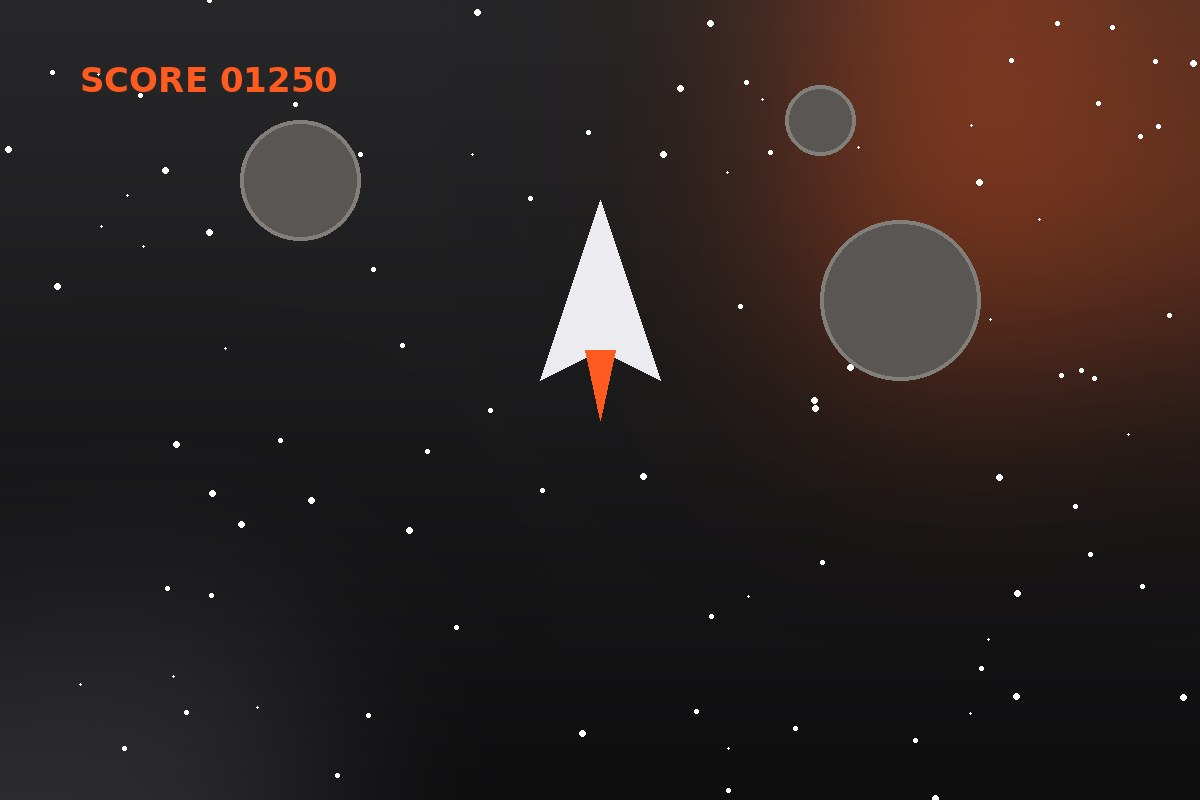
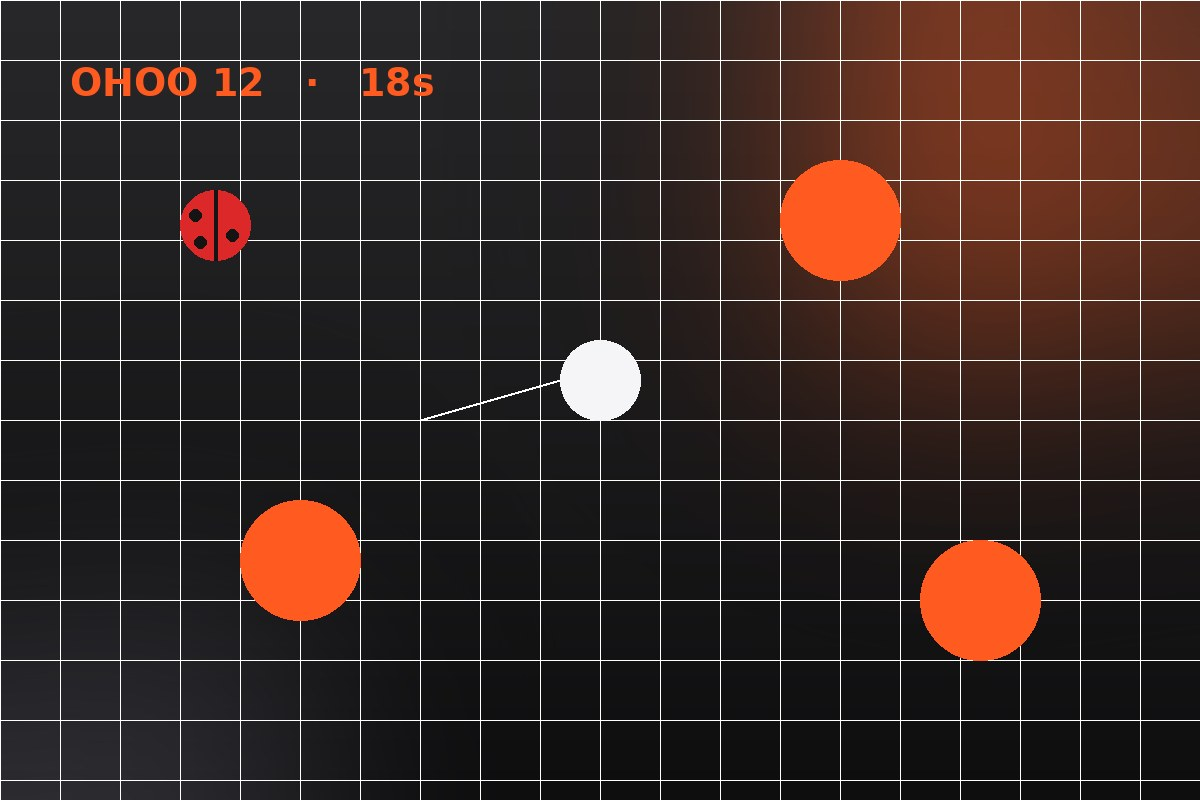
Профайлыг шинэчлэв: СЭЗИС 4-р курс, Orb Rush анхны тоглоом, мөрөөдлийн тоглоом (locked)
Claude-Session: https://claude.ai/code/session_01C69R1T5HpNUTMJKqzjogiB

diff --git a/src/data/profile.ts b/src/data/profile.ts
@@ -10,15 +10,17 @@ export const profile = {
   name: 'Д.Очиржанцан',
   nickname: 'Ochiko',
   studentId: 'B23FA1235',
-  role: 'Game Developer · Student',
+  role: 'Aspiring Game Developer',
   // Нүүр дэлгэцийн нэг өгүүлбэр
-  tagline: 'Код бичих бүрдээ шинэ ертөнц бүтээж, тоглогчдод мартагдашгүй мөч бэлэглэхийг зорьдог.',
-  school: 'СЭЗИС · Мэдээллийн системийн менежмент',
+  tagline: 'Өөрийн тоглоомоо бүтээхийг мөрөөддөг — анхны алхмаа яг энэ апп дотор хийлээ.',
+  school: 'Санхүү Эдийн Засгийн Их Сургууль · 4-р курс',
+  major: 'Мэдээллийн систем',
   bio:
-    'Сайн байна уу! Би Очиржанцан. Хүүхэд байхаасаа тоглоом тоглохдоо "энэ яаж хийгддэг юм бол?" ' +
-    'гэж боддог байсан нь намайг программчлал руу хөтөлсөн. Одоо вэб, мобайл, C# дээр суралцаж, ' +
-    'ирээдүйд өөрийн гэсэн тоглоомоо гаргахыг зорьж байна.',
-  interests: ['Тоглоом хөгжүүлэлт', 'Game design', 'Unity', 'UI/UX'],
+    'Сайн байна уу! Би Очиржанцан, СЭЗИС-ийн Мэдээллийн систем мэргэжлийн 4-р курсийн оюутан. ' +
+    'Тоглоом тоглохдоо "энэ яаж хийгддэг юм бол?" гэж үргэлж боддог байсан. Тэгээд нэг өдөр ' +
+    'өөрийн тоглоомоо бүтээнэ гэж мөрөөддөг болсон. Одоогоор HTML, CSS, JavaScript, C#, React Native сурч, ' +
+    'тэр мөрөөдөл рүүгээ алхам алхмаар ойртож байна.',
+  interests: ['Тоглоом хөгжүүлэлт', 'Game design', 'Тоглоом тоглох', 'UI/UX'],
 };
 
 export type Skill = {
@@ -32,7 +34,7 @@ export const skills: Skill[] = [
   { name: 'HTML', icon: 'logo-html5', level: 80, note: 'Бүтэцтэй, семантик хуудас' },
   { name: 'CSS', icon: 'logo-css3', level: 70, note: 'Flexbox, Grid, анимэйшн' },
   { name: 'JavaScript', icon: 'logo-javascript', level: 65, note: 'DOM, Canvas, ES6+' },
-  { name: 'C#', icon: 'code-slash', level: 55, note: 'OOP, Unity скрипт' },
+  { name: 'C#', icon: 'code-slash', level: 50, note: 'OOP — тоглоомын хэл, сурч байна' },
   { name: 'React Native', icon: 'logo-react', level: 50, note: 'Expo, Animated, Sensors' },
 ];
 
@@ -45,62 +47,67 @@ export type Project = {
   description: string;
   image: ImageSourcePropType;
   link: string;
-  status: 'Live' | 'Building' | 'Done';
+  status: 'Live' | 'Building' | 'Done' | 'Locked';
+  action?: 'game'; // 'game' бол холбоос биш, апп доторх тоглоомыг нээнэ
 };
 
-// TODO: Өөрийн жинхэнэ бүтээлүүд, зураг (assets/projects/) болон холбоосоор солино уу.
+// Хамгийн багадаа 3 бүтээл. Хичээлийн төсөл байж болно.
+// TODO: 3-р бүтээлийг өөрийн хийсэн хичээлийн төсөл, зураг (assets/projects/p3.jpg), холбоосоор солиорой.
 export const projects: Project[] = [
   {
     id: 'p1',
-    title: 'Space Dodger',
-    tag: 'Game Room',
-    stack: ['C#', 'Unity', '2D'],
-    short: 'Солир тойрон нисдэг 2D тоглоом',
+    title: 'Orb Rush',
+    tag: 'Анхны тоглоом',
+    stack: ['React Native', 'Accelerometer', 'Game loop'],
+    short: 'Миний бүтээсэн хамгийн анхны тоглоом 🎮',
     description:
-      'Сансрын хөлгөө удирдан солируудаас зугтаж оноо цуглуулдаг 2D тоглоом. ' +
-      'C# дээр тоглогчийн хөдөлгөөн, мөргөлдөөн шалгах, оноо тоолох системийг бичсэн.',
+      'Тоглоом хийхийг мөрөөддөг надад энэ бол анхны жинхэнэ алхам. Утсаа хазайлгаж бөмбөгөө ' +
+      'удирдаад орб цуглуулж, bug-аас зайлсхийнэ. Game loop (requestAnimationFrame), мөргөлдөөн ' +
+      'шалгах, физик (хурд, үрэлт, хананаас ойх), оноо, рекордыг өөрөө бичсэн. Апп дотор нууцаар байрладаг!',
     image: require('../../assets/projects/p1.jpg'),
     link: 'https://github.com/', // TODO
-    status: 'Building',
+    status: 'Live',
+    action: 'game',
   },
   {
     id: 'p2',
-    title: 'Snake.js',
-    tag: 'Arcade',
-    stack: ['JavaScript', 'Canvas', 'HTML'],
-    short: 'Хөтөч дээр тоглодог сонгодог могой',
+    title: 'Ochiko OS',
+    tag: 'Mobile',
+    stack: ['React Native', 'Expo', 'Sensors', 'Haptics'],
+    short: 'Яг одоо үзэж буй энэ портфолио апп',
     description:
-      'HTML Canvas болон цэвэр JavaScript ашиглан хийсэн сонгодог Snake тоглоом. ' +
-      'Game loop, гарын товчлуурын удирдлага, оноо хадгалах (localStorage) хэрэгжүүлсэн.',
-    image: require('../../assets/projects/p2.jpg'),
-    link: 'https://github.com/', // TODO
-    status: 'Done',
+      'Ухаалаг гэрийн удирдлагын самбар хэлбэртэй портфолио апп. Хазайлтын мэдрэгчээр parallax, ' +
+      'сэгсрэх үйлдлээр нууц өрөө, haptic чичиргээ, swipe gesture, dark/light горим ашигласан.',
+    image: require('../../assets/projects/p4.jpg'),
+    link: 'https://github.com/', // TODO: энэ репогийн холбоос
+    status: 'Live',
   },
   {
     id: 'p3',
-    title: 'Хувийн вэбсайт',
+    title: 'Хичээлийн вэб төсөл',
     tag: 'Web',
     stack: ['HTML', 'CSS', 'JavaScript'],
-    short: 'Анхны responsive портфолио сайт',
+    short: 'TODO: өөрийн хичээлийн төслөөр солих',
     description:
-      'HTML, CSS, JavaScript-ээр хийсэн анхны хувийн вэбсайт. ' +
-      'Утас, компьютер дээр зөв харагдах responsive загвар, dark mode товч оруулсан.',
+      'TODO: Энд хичээл дээр хийсэн HTML/CSS/JavaScript төслөө товч тайлбарлана — юу хийдэг, ' +
+      'ямар асуудал шийддэг, та ямар хэсгийг нь хийсэн бэ.',
     image: require('../../assets/projects/p3.jpg'),
     link: 'https://github.com/', // TODO
     status: 'Done',
   },
   {
     id: 'p4',
-    title: 'Ochiko OS',
-    tag: 'Mobile',
-    stack: ['React Native', 'Expo', 'Sensors'],
-    short: 'Яг одоо үзэж буй энэ апп',
+    title: 'Мөрөөдлийн тоглоом',
+    tag: 'Coming soon',
+    stack: ['C#', 'Unity', 'Game design'],
+    short: 'Хараахан түгжээтэй түвшин 🔒',
     description:
-      'Ухаалаг гэрийн удирдлагын самбар хэлбэртэй портфолио апп. ' +
-      'Хазайлтын мэдрэгч, сэгсрэх үйлдэл, haptic чичиргээ, swipe gesture ашигласан.',
-    image: require('../../assets/projects/p4.jpg'),
-    link: 'https://github.com/', // TODO: энэ репогийн холбоос
-    status: 'Live',
+      'Энэ бол миний хамгийн том мөрөөдөл — өөрийн гэсэн тоглоом. C# сурч, Unity хөдөлгүүртэй ' +
+      'танилцаж байгаа бөгөөд энэ түвшин удахгүй нээгдэнэ. Хамтран ажиллах, зөвлөгөө өгөх хүсэлтэй ' +
+      'бол надтай холбогдоорой!',
+    image: require('../../assets/projects/p2.jpg'),
+    link: 'mailto:b23fa1235@ufe.edu.mn',
+    status: 'Locked',
   },
 ];
 

diff --git a/src/screens/Projects.tsx b/src/screens/Projects.tsx
@@ -9,7 +9,7 @@ import { Glass, IconCircle, Pill, SectionTitle, SwipeButton, T, tap } from '../c
 import { useTheme } from '../theme';
 import { projects, Project } from '../data/profile';
 
-export default function Projects() {
+export default function Projects({ openGame }: { openGame: () => void }) {
   const { theme } = useTheme();
   const { width } = useWindowDimensions();
   const cardW = Math.min(width, 520) - 40; // дэлгэцийн өргөнөөс хамаарч карт томорно/жижгэрнэ
@@ -50,7 +50,7 @@ export default function Projects() {
           const scale = scrollX.interpolate({ inputRange: input, outputRange: [0.92, 1, 0.92], extrapolate: 'clamp' });
           return (
             <Animated.View style={{ width: cardW, transform: [{ scale }] }}>
-              <CamCard p={item} cam={i + 1} h={cardW * 1.15} onPress={() => setOpen(item)} />
+              <CamCard p={item} cam={i + 1} h={cardW * 0.9} onPress={() => setOpen(item)} />
             </Animated.View>
           );
         }}
@@ -76,7 +76,7 @@ export default function Projects() {
         ))}
       </View>
 
-      <ProjectSheet p={open} onClose={() => setOpen(null)} />
+      <ProjectSheet p={open} onClose={() => setOpen(null)} onPlay={() => { setOpen(null); setTimeout(openGame, 350); }} />
     </View>
   );
 }
@@ -87,7 +87,7 @@ function CamCard({ p, cam, h, onPress }: { p: Project; cam: number; h: number; o
       <Image source={p.image} style={StyleSheet.absoluteFill} resizeMode="cover" />
       <View style={styles.camTop}>
         <T size={12} weight="700" color="#fff">Cam{cam} · {p.tag}</T>
-        <View style={styles.liveForce}><Pill label={p.status} dot={p.status === 'Live'} /></View>
+        <Pill label={p.status === 'Locked' ? 'Locked' : p.status} icon={p.status === 'Locked' ? 'lock-closed' : undefined} dot={p.status === 'Live'} />
       </View>
       <View style={styles.camBottom}>
         <View style={{ flex: 1 }}>
@@ -102,7 +102,7 @@ function CamCard({ p, cam, h, onPress }: { p: Project; cam: number; h: number; o
   );
 }
 
-function ProjectSheet({ p, onClose }: { p: Project | null; onClose: () => void }) {
+function ProjectSheet({ p, onClose, onPlay }: { p: Project | null; onClose: () => void; onPlay: () => void }) {
   const { theme } = useTheme();
   const { width } = useWindowDimensions();
   const imgH = (Math.min(width, 560) - 40) / 1.5; // 3:2 харьцаа
@@ -125,7 +125,13 @@ function ProjectSheet({ p, onClose }: { p: Project | null; onClose: () => void }
             <View style={{ flexDirection: 'row', flexWrap: 'wrap', gap: 8, marginBottom: 22 }}>
               {p.stack.map((s) => <Pill key={s} label={s} icon="code-slash" />)}
             </View>
-            <SwipeButton label="Төслийг нээх" icon="open-outline" onComplete={() => Linking.openURL(p.link)} />
+            {p.action === 'game' ? (
+              <SwipeButton label="Гулсуулж тоглох" icon="game-controller" onComplete={onPlay} />
+            ) : p.status === 'Locked' ? (
+              <SwipeButton label="Зөвлөгөө өгөх" icon="mail" onComplete={() => Linking.openURL(p.link)} />
+            ) : (
+              <SwipeButton label="Төслийг нээх" icon="open-outline" onComplete={() => Linking.openURL(p.link)} />
+            )}
             <View style={{ height: 20 }} />
           </ScrollView>
         </View>
@@ -138,7 +144,6 @@ const styles = StyleSheet.create({
   rowBetween: { flexDirection: 'row', alignItems: 'center', justifyContent: 'space-between' },
   cam: { borderRadius: 28, overflow: 'hidden', backgroundColor: '#222', justifyContent: 'space-between' },
   camTop: { flexDirection: 'row', justifyContent: 'space-between', alignItems: 'center', padding: 16 },
-  liveForce: {},
   camBottom: {
     flexDirection: 'row', alignItems: 'center', margin: 12, padding: 14, borderRadius: 22,
     backgroundColor: 'rgba(30,30,32,0.62)', borderWidth: 1, borderColor: 'rgba(255,255,255,0.15)',

diff --git a/src/screens/About.tsx b/src/screens/About.tsx
@@ -9,11 +9,12 @@ import { profile, skills, Skill } from '../data/profile';
 
 // Тоглоом шиг "түвшин"-ээр илэрхийлсэн замнал
 const JOURNEY = [
-  { lv: 1, title: 'Анхны HTML хуудас', text: '"Hello World" — бүх зүйл эндээс эхэлсэн.' },
-  { lv: 2, title: 'CSS-ээр амилуулсан', text: 'Өнгө, байрлал, анимэйшнд дурласан.' },
-  { lv: 3, title: 'JavaScript тоглоом', text: 'Анхны game loop-оо бичсэн.' },
-  { lv: 4, title: 'C# ба Unity', text: 'Жинхэнэ тоглоомын хөдөлгүүртэй танилцсан.' },
-  { lv: 5, title: 'React Native апп', text: 'Яг одоо — энэ апп!' },
+  { lv: '1', title: 'СЭЗИС · Мэдээллийн систем', text: 'Программчлалын ертөнцөд хөл тавьсан.' },
+  { lv: '2', title: 'HTML & CSS', text: '"Hello World" — анхны хуудсаа амилуулсан.' },
+  { lv: '3', title: 'JavaScript', text: 'Логик, интерактив зүйл бичиж эхэлсэн.' },
+  { lv: '4', title: 'C# — тоглоомын хэл', text: 'Тоглоом хийх зорилгоор сурч байна.' },
+  { lv: '5', title: 'React Native + Orb Rush', text: 'Яг одоо — анхны апп, анхны тоглоом!' },
+  { lv: '?', title: 'Мөрөөдлийн тоглоом', text: '🔒 Удахгүй нээгдэнэ…' },
 ];
 
 export default function About() {
@@ -26,6 +27,7 @@ export default function About() {
         <T size={15} style={{ lineHeight: 23 }}>{profile.bio}</T>
         <View style={[styles.infoRow, { borderTopColor: theme.border }]}>
           <Info icon="school-outline" label={profile.school} />
+          <Info icon="briefcase-outline" label={`Мэргэжил: ${profile.major}`} />
           <Info icon="id-card-outline" label={`Оюутны код: ${profile.studentId}`} />
         </View>
         <View style={styles.chips}>
@@ -41,12 +43,13 @@ export default function About() {
       <T size={18} weight="700" style={{ marginTop: 26, marginBottom: 12 }}>Замнал · Level map</T>
       <Glass>
         {JOURNEY.map((j, i) => {
-          const current = i === JOURNEY.length - 1;
+          const current = i === JOURNEY.length - 2;
+          const locked = i === JOURNEY.length - 1;
           return (
-            <View key={j.lv} style={styles.level}>
+            <View key={j.lv} style={[styles.level, locked && { opacity: 0.5 }]}>
               <View style={{ alignItems: 'center', width: 44 }}>
                 <View style={[styles.lvBadge, { backgroundColor: current ? theme.accent : theme.glassStrong, borderColor: theme.border }]}>
-                  <T size={12} weight="800" color={current ? '#fff' : undefined}>Lv{j.lv}</T>
+                  <T size={12} weight="800" color={current ? '#fff' : undefined}>{locked ? '🔒' : `Lv${j.lv}`}</T>
                 </View>
                 {i < JOURNEY.length - 1 && <View style={[styles.line, { backgroundColor: theme.border }]} />}
               </View>

diff --git a/src/screens/Home.tsx b/src/screens/Home.tsx
@@ -47,7 +47,7 @@ export default function Home({ go, openGame }: Props) {
       {/* Танилцуулга карт: нэр, чиглэл, нэг өгүүлбэр */}
       <Glass strong style={{ marginBottom: 14 }}>
         <View style={styles.rowBetween}>
-          <Pill label="Online · Сурч байна" dot />
+          <Pill label="4-р курс · Online" dot />
           <T size={12} muted>ID {profile.studentId}</T>
         </View>
         <T size={34} weight="800" style={{ marginTop: 16 }}>{profile.name}</T>
@@ -57,7 +57,7 @@ export default function Home({ go, openGame }: Props) {
         <View style={[styles.stats, { borderTopColor: theme.border }]}>
           <Stat value={`${skills.length}`} label="Skills" />
           <Stat value={`${projects.length}`} label="Projects" />
-          <Stat value="∞" label="Ideas" />
+          <Stat value="1" label="Game 🎮" />
         </View>
       </Glass>
 

diff --git a/src/screens/GameRoom.tsx b/src/screens/GameRoom.tsx
@@ -192,7 +192,7 @@ export default function GameRoom({ visible, onClose }: { visible: boolean; onClo
             )}
           </View>
           <T size={12} muted style={{ textAlign: 'center', marginTop: 10 }}>
-            Тоглоом хөгжүүлэгч болох замын жижиг алхам ✦ React Native + Accelerometer
+            Миний бүтээсэн анхны тоглоом ✦ React Native + Accelerometer
           </T>
         </View>
       </Background>

diff --git a/App.tsx b/App.tsx
@@ -67,7 +67,7 @@ function Root() {
   const screens = [
     <Home key="h" go={go} openGame={() => setGame(true)} />,
     <About key="a" />,
-    <Projects key="p" />,
+    <Projects key="p" openGame={() => setGame(true)} />,
     <Contact key="c" />,
   ];
 

diff --git a/README.md b/README.md
@@ -1,9 +1,11 @@
 # 🏠 Ochiko OS — Д.Очиржанцаны портфолио апп
 
 > SWM231 · Mobile Programming · Бүтээлч ажил
-> **Д.Очиржанцан** · Оюутны код: **B23FA1235** · Чиглэл: Тоглоом хөгжүүлэлт 🎮
+> **Д.Очиржанцан** · Оюутны код: **B23FA1235**
+> Санхүү Эдийн Засгийн Их Сургууль · Мэдээллийн систем · 4-р курс
+> Мөрөөдөл: өөрийн тоглоомоо бүтээх 🎮
 
-Миний портфолиог **ухаалаг гэрийн удирдлагын апп** хэлбэрээр хийсэн. Апп-ын хэсэг бүр нэг "өрөө", ур чадвар бүр нэг "төхөөрөмж", бүтээл бүр нэг "CCTV камер" болж харагдана. Тоглоом хөгжүүлэх сонирхолтой учраас утсаа сэгсрэхэд утсаа хазайлгаж тоглодог **нууц тоглоомын өрөө** нээгдэнэ.
+Миний портфолиог **ухаалаг гэрийн удирдлагын апп** хэлбэрээр хийсэн. Апп-ын хэсэг бүр нэг "өрөө", ур чадвар бүр нэг "төхөөрөмж", бүтээл бүр нэг "CCTV камер" болж харагдана. Би тоглоом хийхийг мөрөөддөг ч өмнө нь хийж байгаагүй. Тиймээс энэ апп дотроо **анхны тоглоомоо — Orb Rush**-ийг бүтээж, нууц өрөөнд байрлуулсан. Утсаа сэгсрэхэд нээгдэнэ. Мөрөөдлийн тоглоом маань "🔒 Locked" түвшин болж хүлээж байна.
 
 ## ✨ Бүтээлч санаа
 
@@ -25,7 +27,7 @@
 
 1. **Танилцуулга** — Нүүр дэлгэцэнд нэр, чиглэл (Game Developer), нэг өгүүлбэр
 2. **Миний тухай ба ур чадвар** — Намтар, HTML / CSS / JavaScript / C# / React Native
-3. **Бүтээлүүд** — 4 бүтээл: зураг, тайлбар, холбоос
+3. **Бүтээлүүд** — Orb Rush (анхны тоглоом, апп дотроос шууд тоглоно), Ochiko OS, хичээлийн вэб төсөл, мөрөөдлийн тоглоом (locked)
 4. **Холбоо барих** — Имэйл, утас, GitHub, Facebook, Instagram (`Linking.openURL`)
 5. **Responsive** — `useWindowDimensions`, хувь хэмжээ, `maxWidth: 520`; Expo линк / APK-аар нээгдэнэ
 
